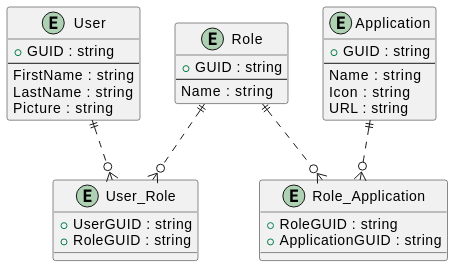
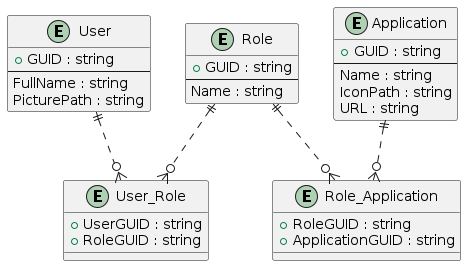
seed users

diff --git a/be/seed.ts b/be/seed.ts
@@ -1,0 +1,139 @@
+import { open, Database } from "sqlite";
+import * as sqlite3 from "sqlite3";
+import { existsSync, mkdirSync, unlinkSync } from "fs";
+import { v4 as uuidv4 } from "uuid";
+
+const folder = "sqlite";
+const dbPath = `./be/${folder}/data.db`;
+
+if (!existsSync(folder)) {
+  mkdirSync(folder);
+}
+
+if (existsSync(dbPath)) {
+  unlinkSync(dbPath);
+}
+
+async function seed(db: Database) {
+  await db.run(`
+    CREATE TABLE Users (
+      GUID TEXT PRIMARY KEY,
+      FullName TEXT,
+      PicturePath TEXT
+    );
+  `);
+
+  const users = [
+    {
+      GUID: uuidv4(),
+      FullName: "James T. Kirk",
+      PicturePath: "kirk.jpg",
+    },
+    { GUID: uuidv4(), FullName: "Spock", PicturePath: "spock.jpg" },
+    {
+      GUID: uuidv4(),
+      FullName: "Leonard McCoy",
+      PicturePath: "mccoy.jpg",
+    },
+    {
+      GUID: uuidv4(),
+      FullName: "Montgomery Scott",
+      PicturePath: "scott.jpg",
+    },
+    { GUID: uuidv4(), FullName: "Uhura", PicturePath: "uhura.jpg" },
+    {
+      GUID: uuidv4(),
+      FullName: "Hikaru Sulu",
+      PicturePath: "sulu.jpg",
+    },
+    {
+      GUID: uuidv4(),
+      FullName: "Pavel Chekov",
+      PicturePath: "chekov.jpg",
+    },
+    {
+      GUID: uuidv4(),
+      FullName: "Jean-Luc Picard",
+      PicturePath: "picard.jpg",
+    },
+    {
+      GUID: uuidv4(),
+      FullName: "William Riker",
+      PicturePath: "riker.jpg",
+    },
+    { GUID: uuidv4(), FullName: "Data", PicturePath: "data.jpg" },
+    {
+      GUID: uuidv4(),
+      FullName: "Geordi La Forge",
+      PicturePath: "laforge.jpg",
+    },
+    { GUID: uuidv4(), FullName: "Worf", PicturePath: "worf.jpg" },
+    {
+      GUID: uuidv4(),
+      FullName: "Deanna Troi",
+      PicturePath: "troi.jpg",
+    },
+    {
+      GUID: uuidv4(),
+      FullName: "Beverly Crusher",
+      PicturePath: "crusher.jpg",
+    },
+    {
+      GUID: uuidv4(),
+      FullName: "Wesley Crusher",
+      PicturePath: "wesley.jpg",
+    },
+  ];
+
+  for (const user of users) {
+    await db.run(
+      `INSERT INTO Users (GUID, FullName, PicturePath) VALUES (?, ?, ?)`,
+      [user.GUID, user.FullName, user.PicturePath]
+    );
+  }
+
+  await db.run(`
+    CREATE TABLE Roles (
+      GUID TEXT PRIMARY KEY,
+      Name TEXT
+    );
+  `);
+
+  await db.run(`
+    CREATE TABLE Apps (
+      GUID TEXT PRIMARY KEY,
+      Name TEXT,
+      IconPath TEXT,
+      URL TEXT
+    );
+  `);
+
+  await db.run(`
+    CREATE TABLE User_Role (
+      UserGUID TEXT,
+      RoleGUID TEXT,
+      PRIMARY KEY(UserGUID, RoleGUID),
+      FOREIGN KEY(UserGUID) REFERENCES User(GUID),
+      FOREIGN KEY(RoleGUID) REFERENCES Role(GUID)
+    );
+  `);
+
+  await db.run(`
+    CREATE TABLE Role_App (
+      RoleGUID TEXT,
+      ApplicationGUID TEXT,
+      PRIMARY KEY(RoleGUID, ApplicationGUID),
+      FOREIGN KEY(RoleGUID) REFERENCES Role(GUID),
+      FOREIGN KEY(ApplicationGUID) REFERENCES Application(GUID)
+    );
+  `);
+}
+
+open({
+  filename: dbPath,
+  driver: sqlite3.Database,
+}).then((database) => {
+  seed(database).then(() => {
+    console.log("Database seeded successfully.");
+  });
+});

diff --git a/be/index.ts b/be/index.ts
@@ -1,31 +1,35 @@
-import sqlite3 from 'sqlite3';
-// import { open } from 'sqlite';
+import { open, Database } from "sqlite";
 import express, { Request, Response } from "express";
-
+import * as sqlite3 from "sqlite3";
 interface User {
   id: number;
   name: string;
   email: string;
 }
 
+// Open the database
+const dbPath = "./be/sqlite/data.db";
+let db: Database;
+open({
+  filename: dbPath,
+  driver: sqlite3.Database,
+}).then((database) => {
+  db = database;
+  console.log("Connected to the users database.");
+});
+
 const app = express();
 app.use(express.json());
 
 // User APIs
-app.get("/users", (req: Request, res: Response) => {
-  const users = [
-    { id: 1, name: "John Doe", email: "john.doe@example.com" },
-    { id: 2, name: "Jane Smith", email: "jane.smith@example.com" },
-    { id: 3, name: "Robert Johnson", email: "robert.johnson@example.com" },
-    { id: 4, name: "Michael Brown", email: "michael.brown@example.com" },
-    { id: 5, name: "Emily Davis", email: "emily.davis@example.com" },
-    { id: 6, name: "Sarah Miller", email: "sarah.miller@example.com" },
-    { id: 7, name: "Jessica Wilson", email: "jessica.wilson@example.com" },
-    { id: 8, name: "Thomas Moore", email: "thomas.moore@example.com" },
-    { id: 9, name: "Daniel Taylor", email: "daniel.taylor@example.com" },
-    { id: 10, name: "Susan Anderson", email: "susan.anderson@example.com" },
-  ];
-  res.json(users);
+app.get("/users", async (req: Request, res: Response) => {
+  try {
+    const users: User[] = await db.all("SELECT * FROM users");
+    res.json(users);
+  } catch (err) {
+    console.error(err);
+    res.status(500).json({ error: "An error occurred while fetching users." });
+  }
 });
 app.post("/users", (req: Request, res: Response) => {
   // Add a new user
